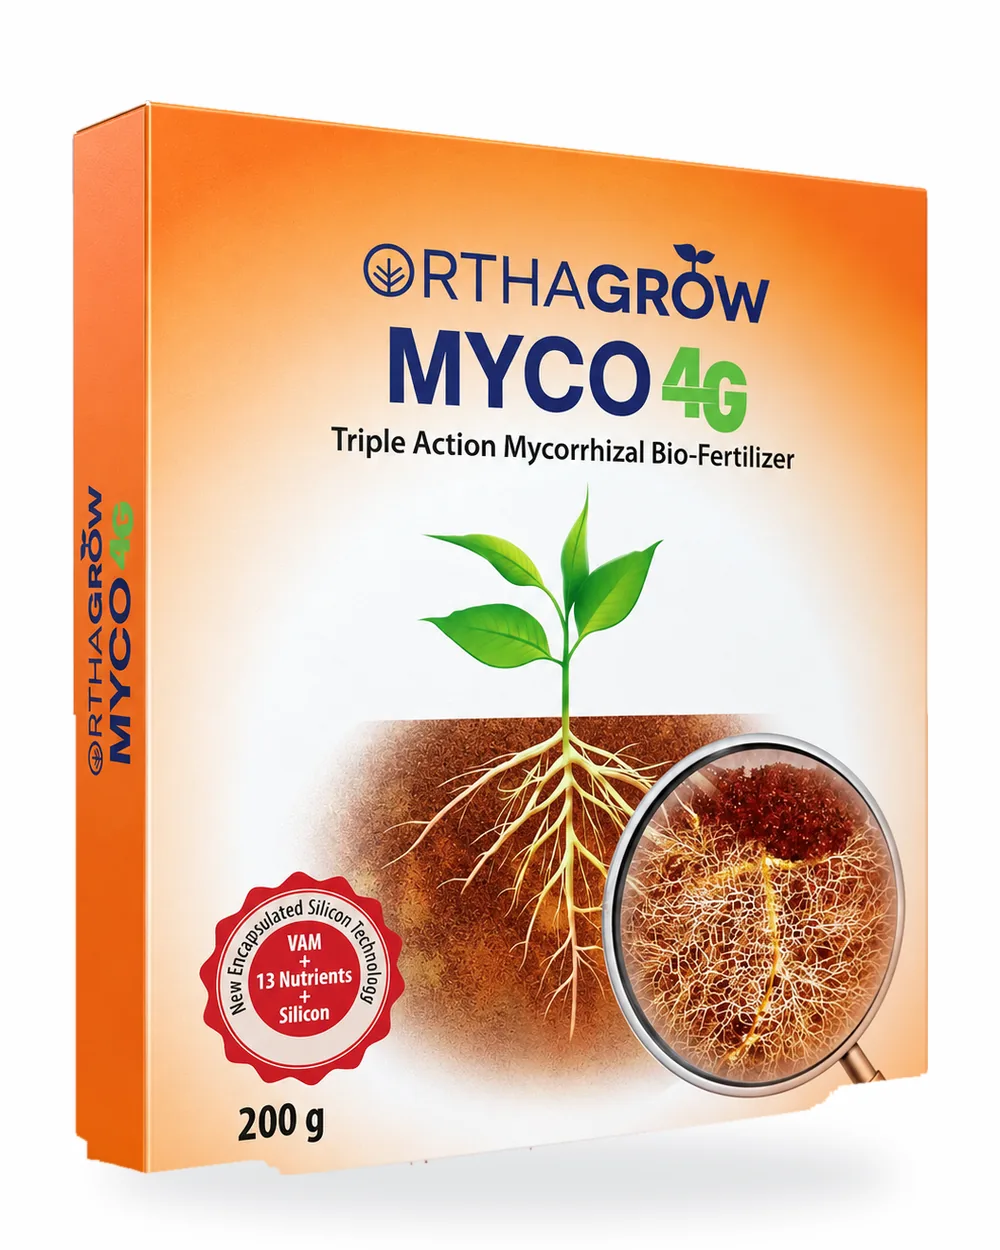
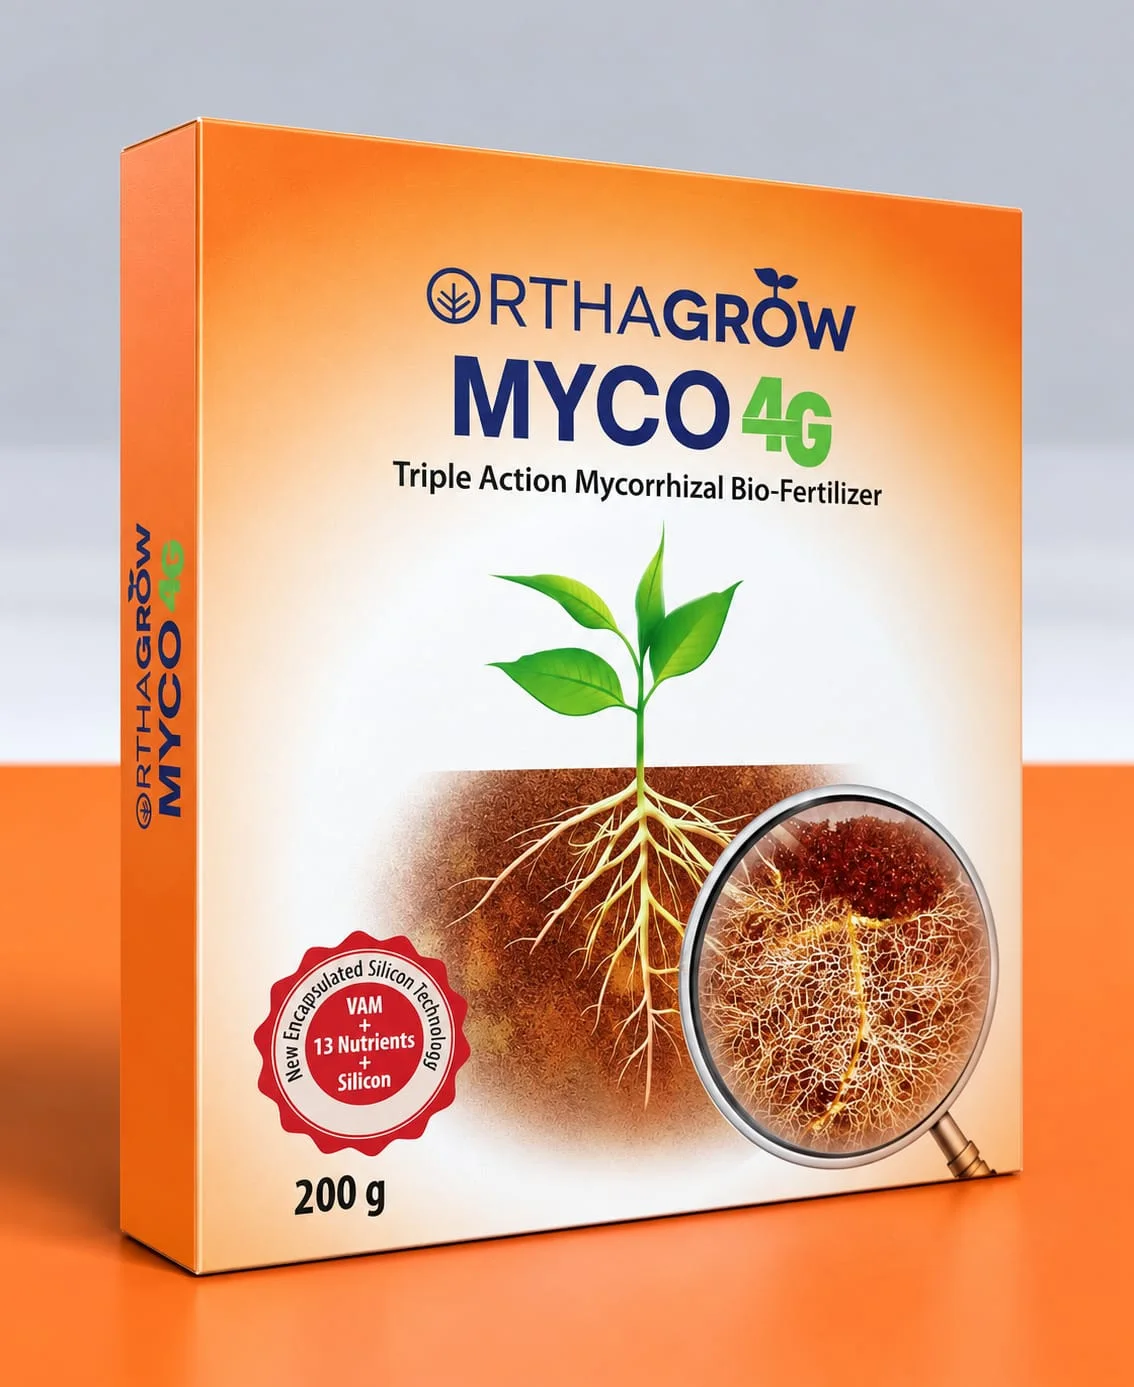
New pack shots for MYCO 4G, Initio 4G and Flor 4G
The photos the client sent on 26 September: MYCO 4G on the orange band, and Initio and
Flor as studio shots on a coloured ground, like the other three pouches since the 21st.
With no white render left, the pouch framing script's list is emptied: run over these
shots it would shrink them onto a white mat.

diff --git a/web/data/products.ts b/web/data/products.ts
@@ -237,7 +237,7 @@ export const PRODUCTS: Product[] = [
    * foliar formulations in a 1 kg pouch; their full technical sheets arrived on
    * 2026-09-22 — see product-copy.json. Matur, Frucfolia and Frucferti got new studio
    * pack shots on 2026-09-21, on a coloured ground, as did the four liquids below and
-   * OrthaHealth Volailles and Bovins; Initio and Flor keep their white cut-outs.
+   * OrthaHealth Volailles and Bovins; Initio and Flor followed on 2026-09-26.
    */
   { slug: 'orthagrow-initio', name: 'Orthagrow Initio 4G', segment: 'agri', range: 'orthagrow' },
   { slug: 'orthagrow-flor', name: 'Orthagrow Flor 4G', segment: 'agri', range: 'orthagrow' },
@@ -258,7 +258,10 @@ export const PRODUCTS: Product[] = [
   { slug: 'orthagrow-alga-si', name: 'Orthagrow ALGA +SI 4G', segment: 'agri', range: 'orthagrow' },
   { slug: 'orthagrow-aminactif', name: 'Orthagrow AMINACTIF-4G', segment: 'agri', range: 'orthagrow' },
 
-  /* Named on 2026-09-16; it had been the soil family's unnamed SOON tile until then. */
+  /*
+   * Named on 2026-09-16; it had been the soil family's unnamed SOON tile until then. The
+   * box on the orange band replaced the first render on 2026-09-26.
+   */
   { slug: 'orthagrow-myco', name: 'Orthagrow MYCO 4G', segment: 'agri', range: 'orthagrow' },
 
   /* The two biological insecticides of the protection family, named on 2026-09-22. */
